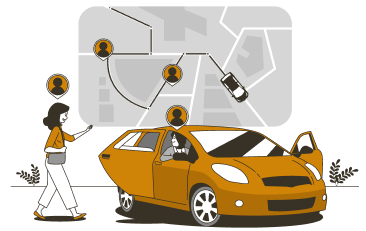
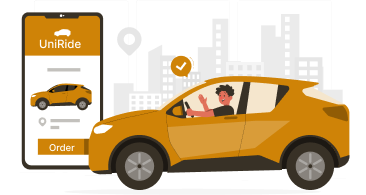
edit images name

diff --git a/lib/core/routes/app_router.dart b/lib/core/routes/app_router.dart
@@ -31,8 +31,8 @@ class AppRouter {
         return withFade
             ? PageRouteBuilder(
                 transitionDuration: const Duration(milliseconds: 300),
-                pageBuilder: (_, animation, __) => const Onboarding2Screen(),
-                transitionsBuilder: (_, animation, __, child) => FadeTransition(
+                pageBuilder: (_, animation, _) => const Onboarding2Screen(),
+                transitionsBuilder: (_, animation, _, child) => FadeTransition(
                   opacity: CurvedAnimation(parent: animation, curve: Curves.easeOut),
                   child: child,
                 ),
@@ -42,8 +42,8 @@ class AppRouter {
       case Routes.onboarding3:
         return PageRouteBuilder(
           transitionDuration: const Duration(milliseconds: 300),
-          pageBuilder: (_, __, ___) => const Onboarding3Screen(),
-          transitionsBuilder: (_, animation, __, child) => FadeTransition(
+          pageBuilder: (_, _, _) => const Onboarding3Screen(),
+          transitionsBuilder: (_, animation, _, child) => FadeTransition(
             opacity: CurvedAnimation(parent: animation, curve: Curves.easeOut),
             child: child,
           ),
@@ -53,8 +53,8 @@ class AppRouter {
         return withFade
             ? PageRouteBuilder(
                 transitionDuration: const Duration(milliseconds: 300),
-                pageBuilder: (_, __, ___) => const Onboarding4Screen(),
-                transitionsBuilder: (_, animation, __, child) => FadeTransition(
+                pageBuilder: (_, _, _) => const Onboarding4Screen(),
+                transitionsBuilder: (_, animation, _, child) => FadeTransition(
                   opacity: CurvedAnimation(parent: animation, curve: Curves.easeOut),
                   child: child,
                 ),
@@ -64,8 +64,8 @@ class AppRouter {
       case Routes.signUp:
         return PageRouteBuilder(
           transitionDuration: const Duration(milliseconds: 1200),
-          pageBuilder: (_, __, ___) => SignupUniScreen(),
-          transitionsBuilder: (_, animation, __, child) {
+          pageBuilder: (_, _, _) => SignupUniScreen(),
+          transitionsBuilder: (_, animation, _, child) {
             final offsetAnimation = Tween<Offset>(
               begin: const Offset(1, 0),
               end: Offset.zero,

diff --git a/lib/features/splash_pages/splash_screen.dart b/lib/features/splash_pages/splash_screen.dart
@@ -18,7 +18,7 @@ class _SplashScreenState extends State<SplashScreen> {
   }
 
   Future<void> _navigate() async {
-    await Future.delayed(const Duration(seconds: 3));
+    await Future.delayed(const Duration(seconds: 2));
 
     final seenOnboarding = AppPrefs.getSeenOnboarding();
     final isLoggedIn = AppPrefs.getIsLoggedIn();
@@ -27,13 +27,10 @@ class _SplashScreenState extends State<SplashScreen> {
 
     if (isLoggedIn) {
       Navigator.pushReplacementNamed(context, Routes.home);
-      return;
-    }
-
-    if (!seenOnboarding) {
+    } else if (!seenOnboarding) {
       Navigator.pushReplacementNamed(context, Routes.onboarding1);
     } else {
-      Navigator.pushReplacementNamed(context, Routes.signUp);
+      Navigator.pushReplacementNamed(context, Routes.onboarding1);
     }
   }
 

diff --git a/lib/features/onboarding_page/presentation/screens/onboarding2_screen.dart b/lib/features/onboarding_page/presentation/screens/onboarding2_screen.dart
@@ -25,7 +25,7 @@ class _Onboarding2ScreenState extends State<Onboarding2Screen> {
             SizedBox(height: 40),
 
             const OnboardingWidget(
-              image: 'assets/images/onboarding1.png',
+              image: 'assets/images/onboarding2.png',
               title: 'Smart Campus Transportation',
               description:
                   'Seamless booking, real-time tracking, and reliable transport for every university day.',

diff --git a/lib/core/storage/app_prefs.dart b/lib/core/storage/app_prefs.dart
@@ -24,16 +24,7 @@ class AppPrefs {
     await _prefs.setBool(PrefKeys.isLoggedIn, value);
   }
 
-  static String? getToken() {
-    return _prefs.getString(PrefKeys.token);
-  }
 
-  static Future<void> setToken(String token) async {
-    await _prefs.setString(PrefKeys.token, token);
-  }
 
-  static Future<void> logout() async {
-    await _prefs.remove(PrefKeys.token);
-    await _prefs.setBool(PrefKeys.isLoggedIn, false);
-  }
+
 }

diff --git a/lib/features/onboarding_page/presentation/screens/onboarding4_screen.dart b/lib/features/onboarding_page/presentation/screens/onboarding4_screen.dart
@@ -23,7 +23,7 @@ class Onboarding4Screen extends StatelessWidget {
             SizedBox(height: 40),
 
             const OnboardingWidget(
-              image: 'assets/images/onboarding3.png',
+              image: 'assets/images/onboarding4.png',
               title: 'Connected Rides, be \nConnected',
               description:
                   'Choose your ride, set your schedule, and enjoy hassle-free campus transportation.',

diff --git a/lib/features/onboarding_page/presentation/screens/onboarding3_screen.dart b/lib/features/onboarding_page/presentation/screens/onboarding3_screen.dart
@@ -23,7 +23,7 @@ class Onboarding3Screen extends StatelessWidget {
             SizedBox(height: 40),
 
             OnboardingWidget(
-              image: 'assets/images/onboarding2.png',
+              image: 'assets/images/onboarding3.png',
               title: 'Book • Track • Arrive',
               description:
                   'Seamless booking, real-time tracking, and reliable transport for every university day.',

diff --git a/lib/features/signup_pages/presentation/screens/signup_uni_screen.dart b/lib/features/signup_pages/presentation/screens/signup_uni_screen.dart
@@ -11,6 +11,10 @@ class SignupUniScreen extends StatefulWidget {
 class _SignupUniScreenState extends State<SignupUniScreen> {
   @override
   Widget build(BuildContext context) {
-    return const Placeholder();
+    return Scaffold(
+      body: Center(
+        child: Text('Signup University Screen'),
+      ),
+    );
   }
 }

diff --git a/lib/features/onboarding_page/presentation/screens/onboarding1_screen.dart b/lib/features/onboarding_page/presentation/screens/onboarding1_screen.dart
@@ -16,7 +16,7 @@ class Onboarding1Screen extends StatelessWidget {
         children: [
           Positioned.fill(
             child: Image.asset(
-              'assets/images/splash1.png',
+              'assets/images/onboarding1.png',
               fit: BoxFit.fitHeight,
             ),
           ),

diff --git a/lib/core/storage/prefs_keys.dart b/lib/core/storage/prefs_keys.dart
@@ -1,5 +1,4 @@
 class PrefKeys {
   static const String seenOnboarding = 'seenOnboarding';
   static const String isLoggedIn = 'isLoggedIn';
-  static const String token = 'token';
 }
